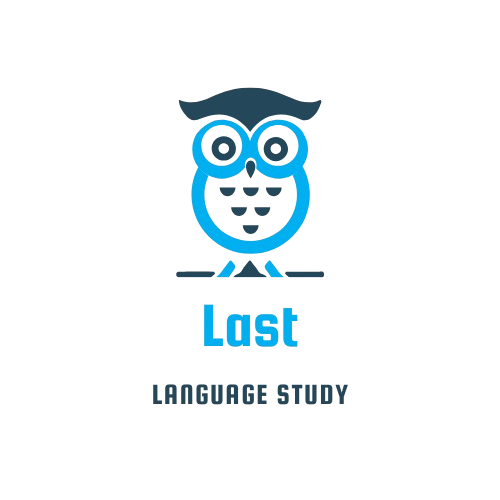
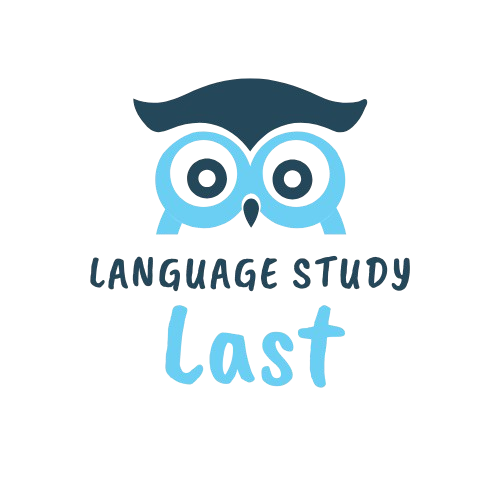
Frontend changes

Changed region(s): [[0.18, 0.15, 0.84, 0.81]]

diff --git a/src/App.css b/src/App.css
@@ -5,17 +5,14 @@
   justify-content: center;
   text-align: center;
   height: 100vh;
-  color: white;
-  font-family: Inter, system-ui, Avenir, Helvetica, Arial, sans-serif;
+  font-family:'Brush Script MT', cursive;
   line-height: 1.5;
   font-weight: 400;
 
   color-scheme: light dark;
-  background-color: #242424;
   background-image: url("../blueBackground3.png");
   background-repeat: repeat;
 
-  
   font-synthesis: none;
   text-rendering: optimizeLegibility;
   -webkit-font-smoothing: antialiased;
@@ -31,7 +28,7 @@
   display: flex;
   flex-direction: column;
 }
-/* 242424 */
+
 .mainSection{
   display: flex;
   flex-direction: column;
@@ -39,12 +36,13 @@
   justify-content: center;
   align-items: center;
   overflow-y: auto;
-  background-color: #242424;
+  background-color: #f8fdff;
   height: 80vh;
   width: 40vw;
-  opacity: 90%;
+  opacity: 95%;
   min-width: 300px;
   border-radius: 3%; 
+  color: #242424;
 }
 
 .textArea{
@@ -53,15 +51,6 @@
   margin: 1vh;
   align-self: center;
   resize: none;
-}
-
-a {
-  font-weight: 500;
-  color: #FFFFFF;
-  text-decoration: inherit;
-}
-a:hover {
-  color: #535bf2;
 }
 
 h1 {
@@ -75,13 +64,12 @@ button {
   font-size: 1em;
   font-weight: 500;
   font-family: inherit;
-  background-color: #1a1a1a;
+  background-color: #6ACFF3;
   cursor: pointer;
   transition: border-color 0.25s;
 }
 button:hover {
-  background-color: #646cff;
-  border-color: #646cff;
+  background-color: #548DDB;
 }
 button:focus,
 button:focus-visible {

diff --git a/src/Components/Menu/Menu.css b/src/Components/Menu/Menu.css
@@ -1,0 +1,11 @@
+a {
+    color: #000;
+    text-decoration: none;
+    font-size: 1.5rem;
+    font-weight: 500;
+    padding: 0 1rem;
+    transition: color 0.3s;
+}
+a:hover {
+    color: #6ACFF3;
+}
